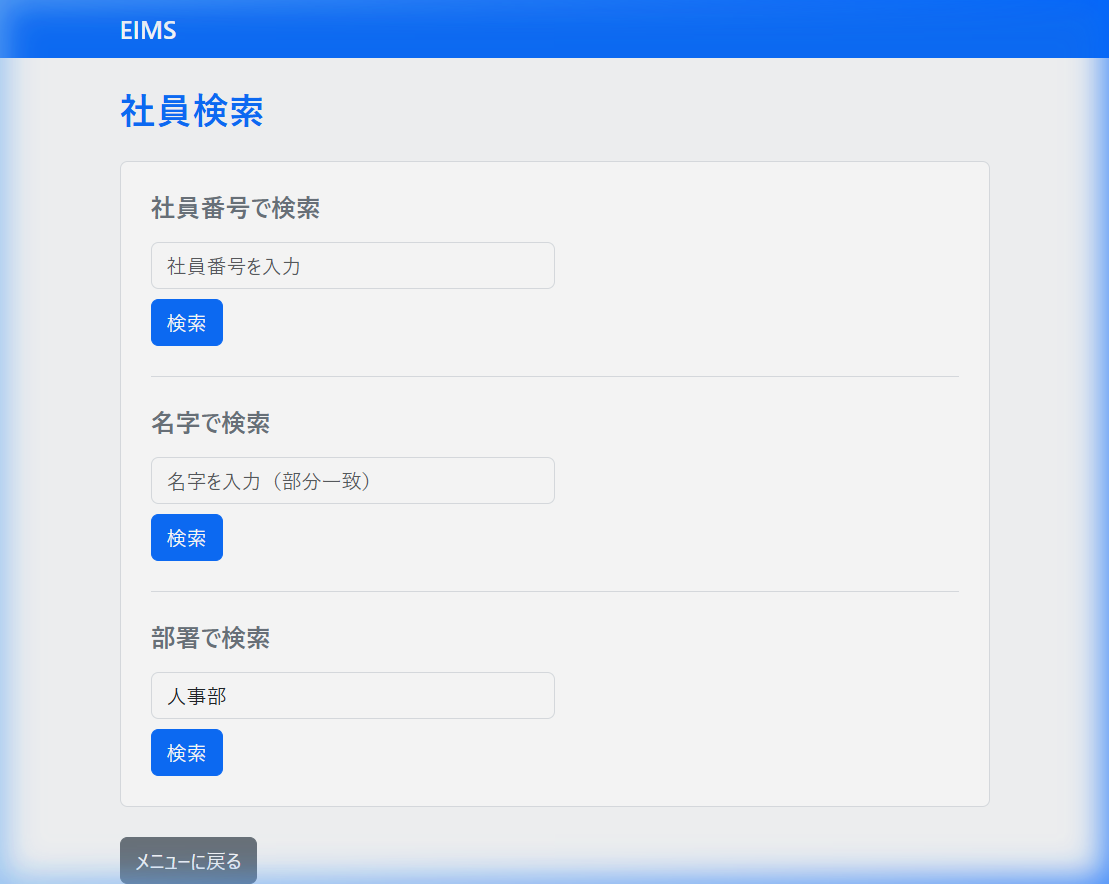
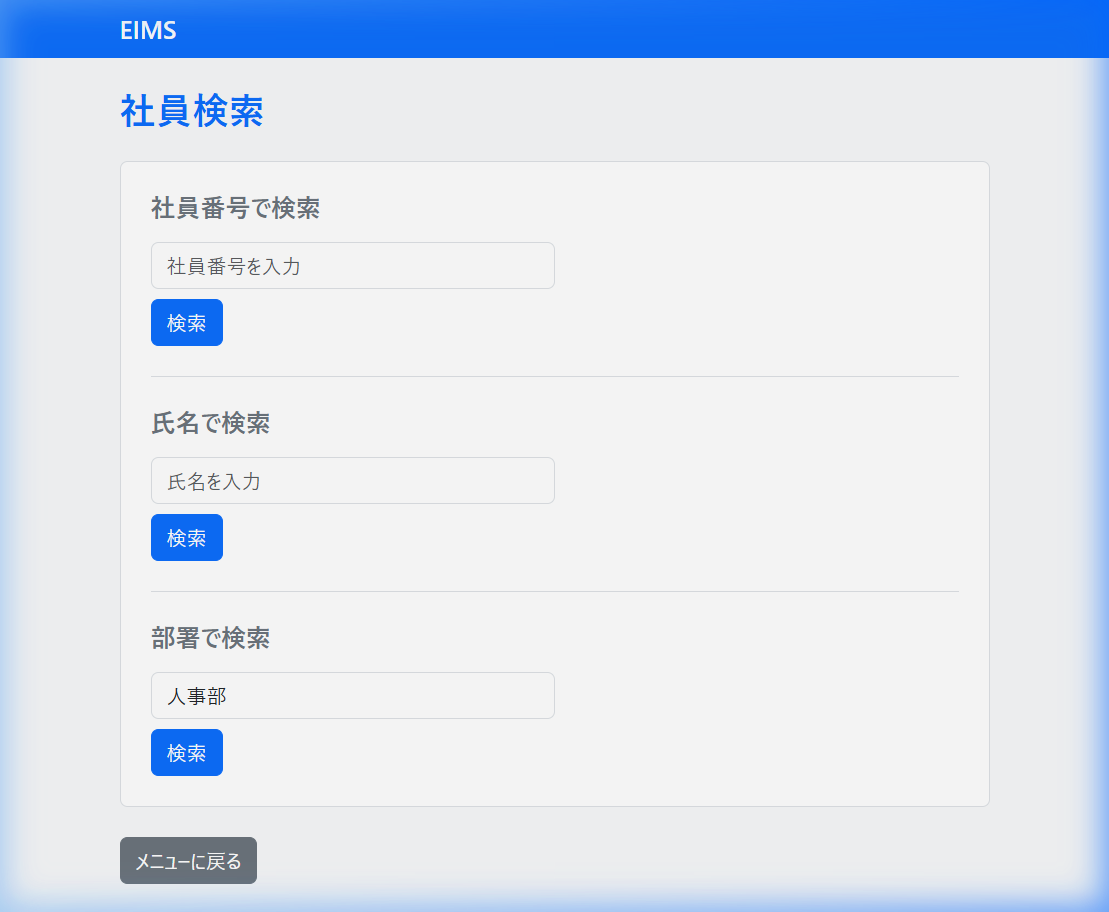
部署検索（パターン3）のスクリーンショットを更新

diff --git a/EIMS_SpringBoot_Basic/src/main/resources/templates/search.html b/EIMS_SpringBoot_Basic/src/main/resources/templates/search.html
@@ -26,7 +26,7 @@
             <h5 class="mb-3 text-secondary border-top pt-4">氏名で検索</h5>
             <form th:action="@{/selectByEmpName}" method="get" class="mb-4">
                 <div class="mb-2">
-                    <input type="text" name="keyword" class="form-control w-50" placeholder="氏名を入力（部分一致）" required>
+                    <input type="text" name="keyword" class="form-control w-50" placeholder="氏名を入力" required>
                 </div>
                 <button type="submit" class="btn btn-primary">検索</button>
             </form>
